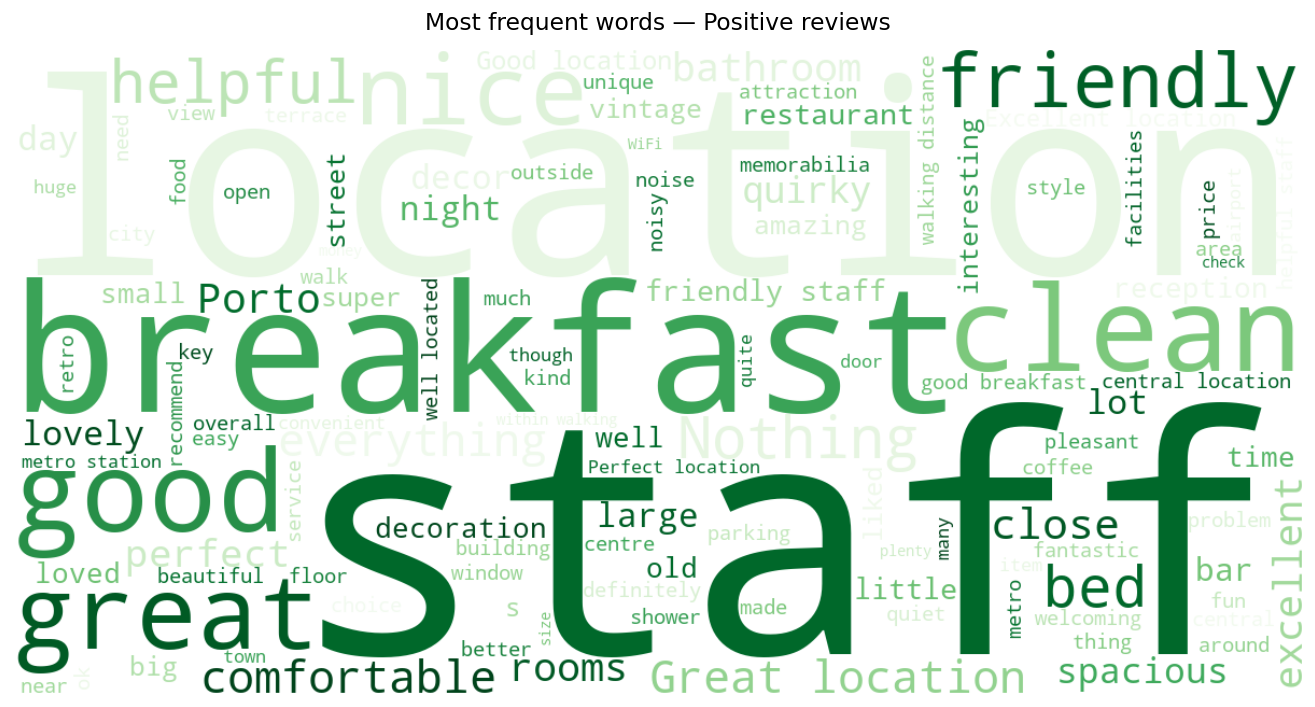
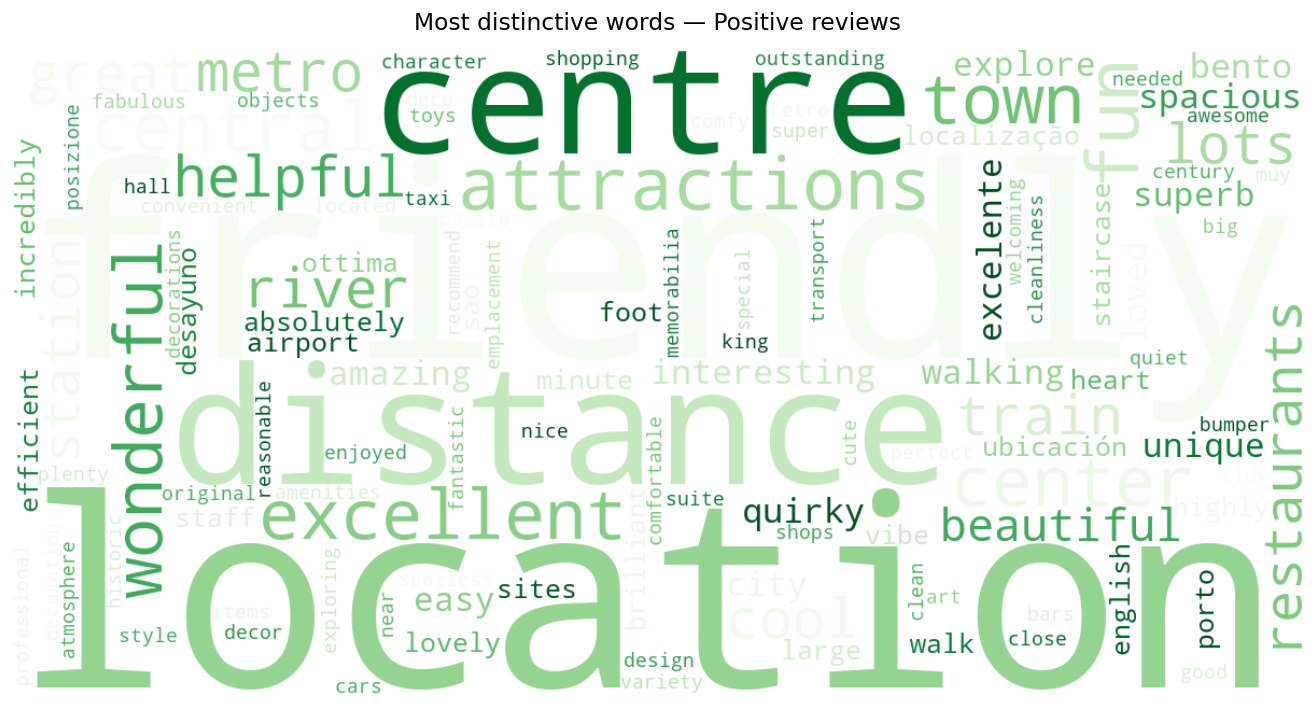
fix: replace raw word frequency with log-odds word clouds
Word clouds previously used full_review_text (pos_review + neg_review
concatenated) filtered by sentiment label, causing cross-contamination:
words like "staff", "breakfast", and "good" appeared prominently in both
positive and negative clouds.

Changes:
- Use pos_review / neg_review columns directly (reviewer-authored
  sections) instead of full_review_text, eliminating contamination at
  the source.
- Replace WordCloud.generate() + hardcoded stop-word list with
  CountVectorizer log-odds ratio scoring fed into
  WordCloud.generate_from_frequencies(). Word size now reflects how
  much more a word appears in one side vs the other, not raw frequency.
- TF-IDF was attempted first but is ineffective at corpus size = 2
  (IDF barely discriminates); log-odds works correctly for this case.
- Switched from TfidfVectorizer to CountVectorizer import accordingly.
- Updated figure titles from "Most frequent words" to
  "Most distinctive words" to reflect the new scoring method.
- Regenerated fig_wordcloud_positive.png and fig_wordcloud_negative.png.

diff --git a/src/agents/eda.py b/src/agents/eda.py
@@ -6,8 +6,10 @@ import matplotlib
 matplotlib.use("Agg")
 import matplotlib.pyplot as plt
 import matplotlib.ticker as mticker
+import numpy as np
 import pandas as pd
-from wordcloud import WordCloud, STOPWORDS
+from sklearn.feature_extraction.text import CountVectorizer
+from wordcloud import WordCloud
 
 from src.orchestration.state import WorkflowState
 from src.utils.logging_utils import get_logger
@@ -142,20 +144,42 @@ def run_eda(state: WorkflowState) -> WorkflowState:
     plt.tight_layout()
     figures.append(_savefig("fig_avg_score_by_room.png"))
 
-    # ── Figure 8 & 9: Word clouds ─────────────────────────────────────────
-    extra_stops = {
-        "hotel", "room", "stay", "one", "will", "also", "really", "bit",
-        "get", "got", "just", "like", "even", "us", "would", "could", "place",
-    }
-    wc_stopwords = STOPWORDS | extra_stops
+    # ── Figure 8 & 9: Word clouds (log-odds weighted) ────────────────────
+    # Use reviewer-authored pos_review / neg_review columns directly so there
+    # is no cross-contamination from full_review_text concatenation.
+    # Word size is driven by log-odds ratio: how much more a word appears in
+    # one side vs the other.  This works correctly with only 2 aggregated
+    # documents, unlike TF-IDF whose IDF is near-useless at corpus size = 2.
+    pos_text = " ".join(df["pos_review"].dropna()) if "pos_review" in df.columns else ""
+    neg_text = " ".join(df["neg_review"].dropna()) if "neg_review" in df.columns else ""
 
-    def _wordcloud(text: str, title: str, colormap: str, fname: str) -> str:
+    # Fallback: sentiment-filtered full text when dedicated columns are absent
+    if not pos_text.strip():
+        pos_text = " ".join(df.loc[df["sentiment"] == "positive", "full_review_text"].dropna())
+    if not neg_text.strip():
+        neg_text = " ".join(df.loc[df["sentiment"] == "negative", "full_review_text"].dropna())
+
+    def _log_odds_freqs(target_text: str, contrast_text: str) -> dict[str, float]:
+        """Score words by log-odds of appearing in target vs contrast."""
+        vec = CountVectorizer(stop_words="english", max_features=500)
+        mat = vec.fit_transform([target_text, contrast_text])
+        words = vec.get_feature_names_out()
+        target_counts = np.asarray(mat[0].todense()).flatten().astype(float)
+        contrast_counts = np.asarray(mat[1].todense()).flatten().astype(float)
+        vocab_size = len(words)
+        # Add-one smoothing so unseen words don't produce -inf
+        target_freq = (target_counts + 1) / (target_counts.sum() + vocab_size)
+        contrast_freq = (contrast_counts + 1) / (contrast_counts.sum() + vocab_size)
+        log_odds = np.log(target_freq / contrast_freq)
+        # Keep only words that favour the target side
+        return {w: float(lo) for w, lo in zip(words, log_odds) if lo > 0}
+
+    def _wordcloud(freqs: dict[str, float], title: str, colormap: str, fname: str) -> str:
         wc = WordCloud(
             width=1200, height=600, background_color="white",
-            colormap=colormap, stopwords=wc_stopwords,
-            max_words=120, collocations=True,
+            colormap=colormap, max_words=120,
             prefer_horizontal=0.85,
-        ).generate(text)
+        ).generate_from_frequencies(freqs)
         fig, ax = plt.subplots(figsize=(12, 6))
         ax.imshow(wc, interpolation="bilinear")
         ax.axis("off")
@@ -163,14 +187,18 @@ def run_eda(state: WorkflowState) -> WorkflowState:
         plt.tight_layout()
         return _savefig(fname)
 
-    pos_text = " ".join(df.loc[df["sentiment"] == "positive", "full_review_text"].dropna())
-    neg_text = " ".join(df.loc[df["sentiment"] == "negative", "full_review_text"].dropna())
+    if pos_text.strip() and neg_text.strip():
+        pos_freqs = _log_odds_freqs(pos_text, neg_text)
+        neg_freqs = _log_odds_freqs(neg_text, pos_text)
+    else:
+        pos_freqs = {}
+        neg_freqs = {}
 
-    if pos_text.strip():
-        figures.append(_wordcloud(pos_text, "Most frequent words — Positive reviews",
+    if pos_freqs:
+        figures.append(_wordcloud(pos_freqs, "Most distinctive words — Positive reviews",
                                   "Greens", "fig_wordcloud_positive.png"))
-    if neg_text.strip():
-        figures.append(_wordcloud(neg_text, "Most frequent words — Negative reviews",
+    if neg_freqs:
+        figures.append(_wordcloud(neg_freqs, "Most distinctive words — Negative reviews",
                                   "Reds", "fig_wordcloud_negative.png"))
 
     # ── Figure 10: Temporal sentiment share ──────────────────────────────